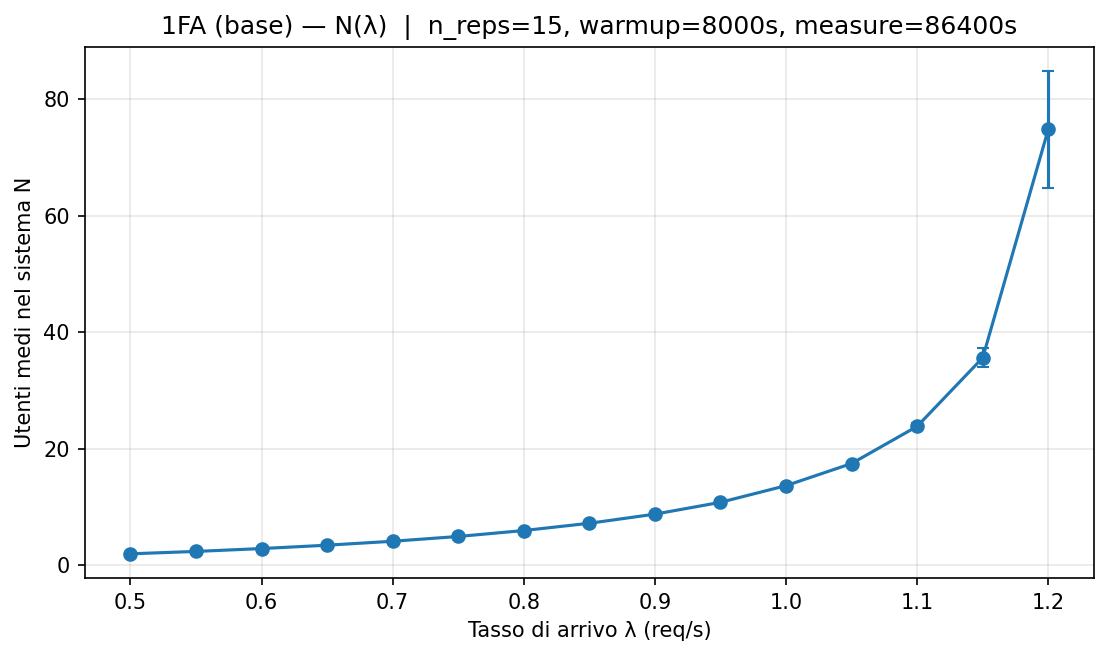
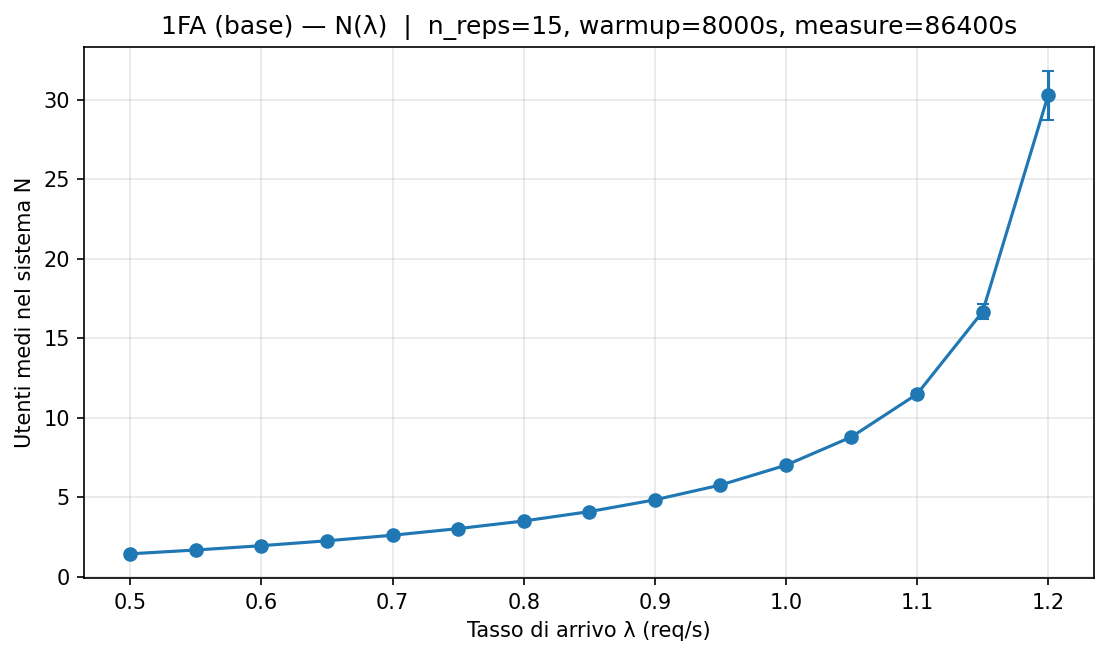
Add configurable arrival and service distributions
Introduces support for specifying arrival and service time distributions via scenario config and Scenario class. EcommerceModel now selects distributions for arrivals and service demands based on scenario parameters, enabling use of exponential, hyperexponential, erlang, and lognormal distributions. Also updates import in service_dist.py and disables interactive mode selection in main.py.

diff --git a/model/ecommerce.py b/model/ecommerce.py
@@ -1,6 +1,7 @@
 import simpy
 from typing import Dict, List, Optional
 import statistics as stats
+from rndbook import service_dist
 
 from rndbook.rng_setup import init_rng_for_replication, use_stream
 from rndbook.rvgs import Exponential
@@ -57,14 +58,18 @@ class EcommerceModel:
             mean_iat = 1.0 / lam
             use_stream("arrivals")  # seleziona lo stream definito in rng_setup.STREAMS["arrivals"]
             # iat = Exponential(mean_iat)  # estrae l'inter-arrivo esponenziale con media 1/λ
-            iat = HyperExp2Balanced(mean_iat, p=0.10)
+            if self.scenario.arrival_process == "exp":
+                iat = Exponential(mean_iat)
+            elif self.scenario.arrival_process == "hyperexp":
+                iat = HyperExp2Balanced(mean_iat, p=0.10)
+            else:
+                raise ValueError(f"arrival_kind non supportato: {self.arrival_process}")
             yield self.env.timeout(iat)
             self._arrival_times.append(self.env.now)  # LOG dell’arrivo reale
 
             # avvia il workflow della nuova richiesta
             jid += 1
             self.env.process(self.job_flow(jid))
-
 
     def _exp_demand(self, station: str, job_class: str) -> float:
 
@@ -81,7 +86,30 @@ class EcommerceModel:
         campiona Exp(mean = D_s) dove D_s è nello Scenario per (stazione, class_id).
         Lo switch di stream RNG è "safe": se lo stream dedicato non esiste, ripiega.
         """
-        d = self._exp_demand(sname, class_id)  # campione esponenziale
+        kindA=self.scenario.service_dist.get("A")
+        kindB=self.scenario.service_dist.get("B")
+        kindP=self.scenario.service_dist.get("P")
+        d=0.0;
+
+        if sname=="A":
+            if kindA == "exp":
+                d = self._exp_demand(sname, class_id)
+            elif kindA == "erlang":
+                mean = float(self.scenario.service_demands.get(station, {}).get(class_id, 0.0))
+                d = service_dist.demand_erlang(mean,3)
+
+        if sname=="B":
+            if kindB == "exp":
+                d = self._exp_demand(sname, class_id)
+            elif kindB == "lognorm":
+                mean = float(self.scenario.service_demands.get(station, {}).get(class_id, 0.0))
+                d = service_dist.demand_lognormal(mean,3)
+        if sname=="P":
+            if kindP == "exp":
+                d = self._exp_demand(sname, class_id)
+            elif kindP == "erlang":
+                mean = float(self.scenario.service_demands.get(station, {}).get(class_id, 0.0))
+                d = service_dist.demand_erlang(mean,3)
         if d <= 0.0:
             return
 

diff --git a/main.py b/main.py
@@ -175,6 +175,8 @@ def run_phase_steady(config_dir: str = DEFAULT_CONFIG_DIR) -> None:
 
 
 # ------------------------------- ENTRYPOINT ----------------------------------
+#commento per evitare questa funzione
+''' 
 def _choose_mode_via_io() -> tuple[str, str]:
 
     parser = argparse.ArgumentParser(description="Selezione della fase da eseguire")
@@ -193,19 +195,19 @@ def _choose_mode_via_io() -> tuple[str, str]:
 
     # Default non interattivo
     return "finite", args.config
-
+'''
 
 def main() -> None:
-    mode, config_dir = _choose_mode_via_io()
+    config_dir=DEFAULT_CONFIG_DIR
+    mode="finite"
     print(f"[INFO] modalità={mode} | config_dir={config_dir}")
 
-    #if mode == "steady":
-    #    run_phase_steady(config_dir=config_dir)
-    #else:
-    #    run_phase_finite(config_dir=config_dir)
-
-    run_phase_finite(config_dir=config_dir)
+    if mode == "steady":
+        run_phase_steady(config_dir=config_dir)
+    else:
+        run_phase_finite(config_dir=config_dir)
 
 
+#init
 if __name__ == "__main__":
     main()

diff --git a/model/scenario.py b/model/scenario.py
@@ -15,6 +15,11 @@ import yaml
 class Scenario:
     name: str
     service_demands: Dict[str, Dict[str, float]]
+    arrival_process: str
+    #rappresenta le distribuzioni dei server in questo modo service_dist:A: "exp" B: "exp" P: "exp"
+    service_dist: Dict[str, str] = field(default_factory=lambda: {"A": "exp", "B": "exp", "P": "exp"})
+
+    type: str = "tutto_exp"  # "tutto_exp" o "realistico"
     capacities: Dict[str, int] = field(default_factory=lambda: {"A": 1, "B": 1, "P": 1})
     interarrival_mean_s: float = 3.0
     run_s: float = 10000.0

diff --git a/rndbook/service_dist.py b/rndbook/service_dist.py
@@ -24,7 +24,7 @@ from typing import Tuple
 import math
 
 # Primitive RNG dal progetto
-from rvgs import Erlang, Lognormal
+from rndbook.rvgs import Erlang, Lognormal
 
 
 # ---------- Helper: Erlang-k ----------
